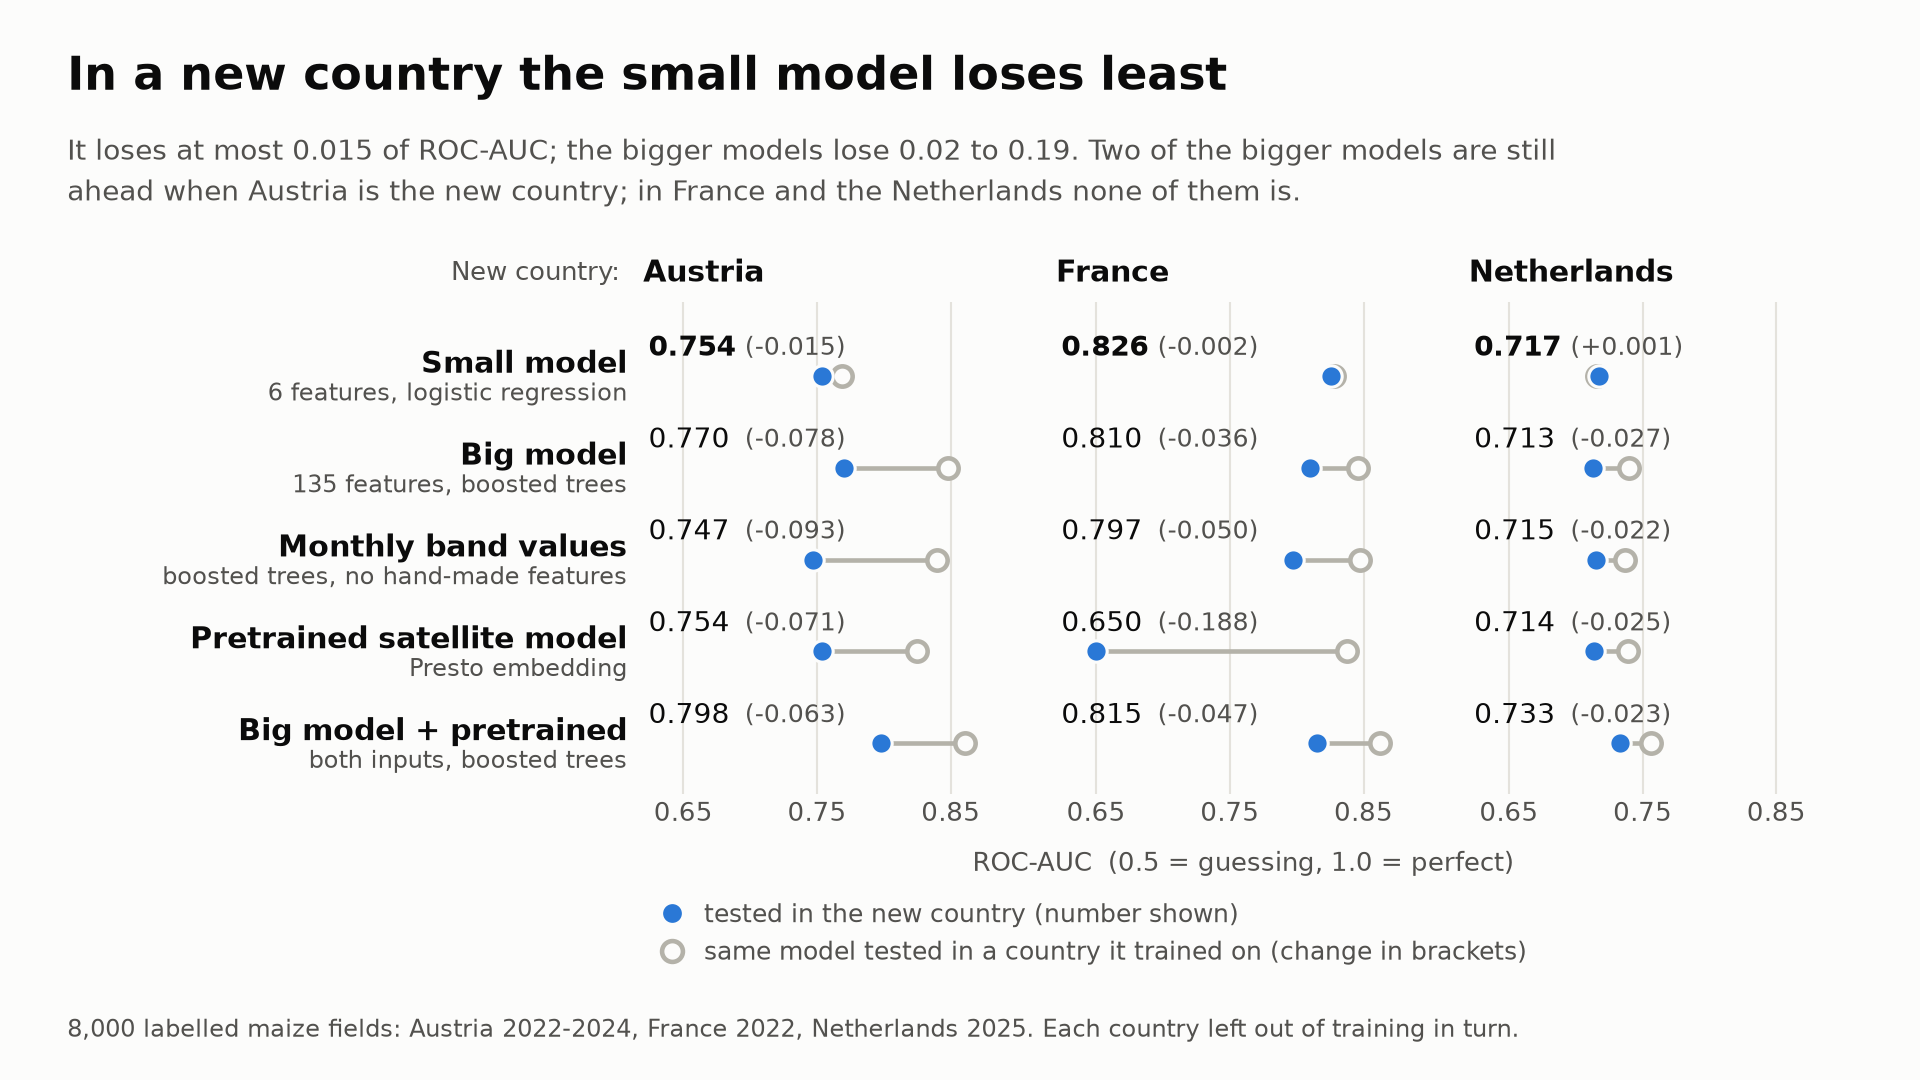
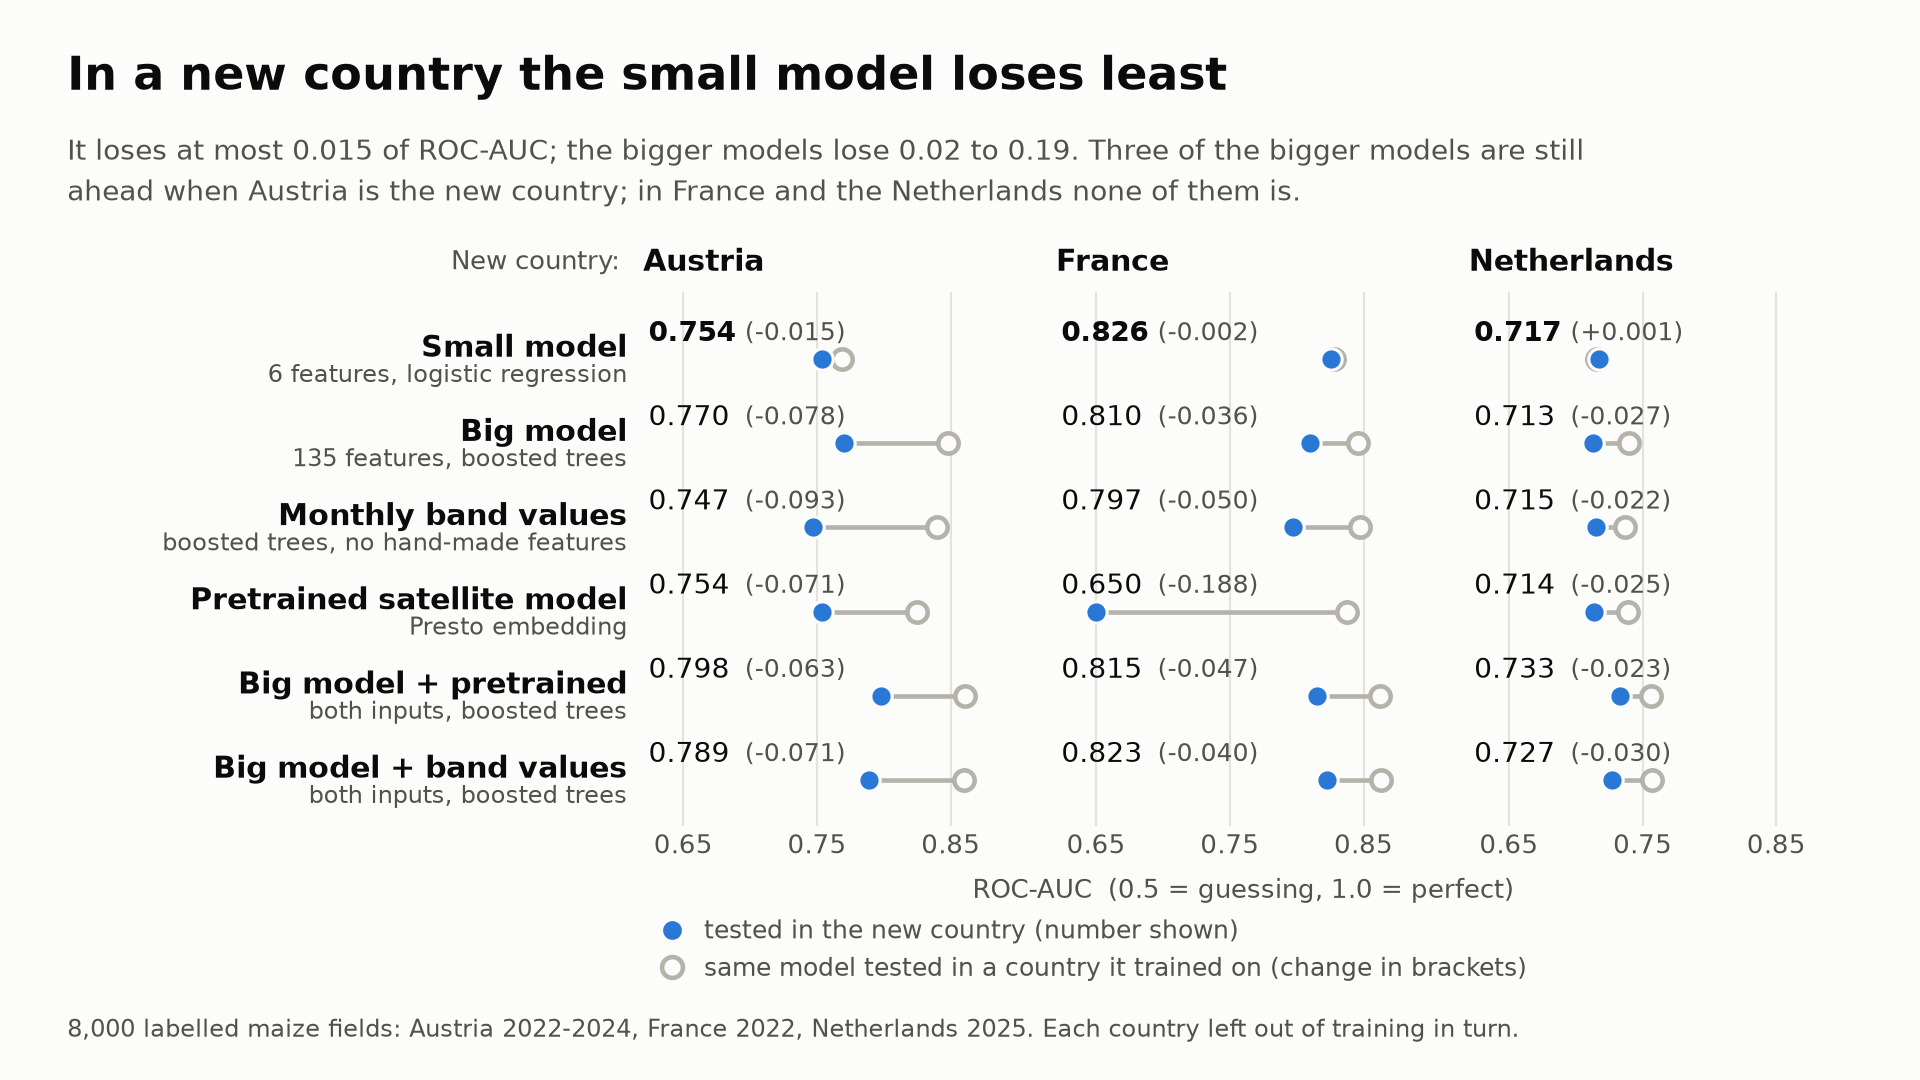
Pitch pack: what to say with a Chinese gloss, five judge questions, what we do not claim with the source of every number

diff --git a/docs/pitch/draw.py b/docs/pitch/draw.py
@@ -147,12 +147,12 @@ def signal():
 # --- 2. a country the model never saw ----------------------------------------------------------------
 def new_country():
     fig = new_fig("In a new country the small model loses least",
-                  "It loses at most 0.015 of ROC-AUC; the bigger models lose 0.02 to 0.19. Two of the bigger models are still\n"
+                  "It loses at most 0.015 of ROC-AUC; the bigger models lose 0.02 to 0.19. Three of the bigger models are still\n"
                   "ahead when Austria is the new country; in France and the Netherlands none of them is.")
     n = len(N.TRANSFER)
     lo, hi = 0.62, 0.90
     for p, country in enumerate(N.TRANSFER_COUNTRIES):
-        ax = fig.add_axes([0.335 + p * 0.215, 0.265, 0.195, 0.455])
+        ax = fig.add_axes([0.335 + p * 0.215, 0.235, 0.195, 0.495])
         clean(ax)
         for i, (name, sub, cells) in enumerate(N.TRANSFER):
             out, loss = cells[p]
@@ -172,16 +172,16 @@ def new_country():
         ax.set_yticks([])
         ax.set_xticks([0.65, 0.75, 0.85])
         ax.set_title(country, fontsize=14.5, color=INK, loc="left", pad=10, fontweight="bold")
-    fig.text(0.323, 0.747, "New country:", fontsize=12.5, color=INK2, ha="right", va="center")
+    fig.text(0.323, 0.757, "New country:", fontsize=12.5, color=INK2, ha="right", va="center")
     handles = [
         plt.Line2D([], [], marker="o", ls="", markersize=10, markerfacecolor=BLUE, markeredgecolor=BG,
                    label="tested in the new country (number shown)"),
         plt.Line2D([], [], marker="o", ls="", markersize=10, markerfacecolor=BG, markeredgecolor=GREY,
                    markeredgewidth=2.2, label="same model tested in a country it trained on (change in brackets)"),
     ]
-    fig.legend(handles=handles, loc="lower left", bbox_to_anchor=(0.325, 0.085), ncol=1, frameon=False, fontsize=12,
+    fig.legend(handles=handles, loc="lower left", bbox_to_anchor=(0.325, 0.07), ncol=1, frameon=False, fontsize=12,
                labelcolor=INK2, handletextpad=0.3)
-    fig.text(0.335 + 0.215 + 0.0975, 0.2, "ROC-AUC  (0.5 = guessing, 1.0 = perfect)", fontsize=12.5, color=INK2,
+    fig.text(0.335 + 0.215 + 0.0975, 0.175, "ROC-AUC  (0.5 = guessing, 1.0 = perfect)", fontsize=12.5, color=INK2,
              ha="center", va="center")
     foot(fig, "8,000 labelled maize fields: Austria 2022-2024, France 2022, Netherlands 2025. Each country left out of training in turn.")
     save(fig, "fig2_new_country")

diff --git a/docs/pitch/pitch_numbers.py b/docs/pitch/pitch_numbers.py
@@ -32,7 +32,11 @@ TRANSFER = [
     ("Monthly band values", "boosted trees, no hand-made features", [(0.747, 0.093), (0.797, 0.050), (0.715, 0.022)]),
     ("Pretrained satellite model", "Presto embedding", [(0.754, 0.071), (0.650, 0.188), (0.714, 0.025)]),
     ("Big model + pretrained", "both inputs, boosted trees", [(0.798, 0.063), (0.815, 0.047), (0.733, 0.023)]),
+    ("Big model + band values", "both inputs, boosted trees", [(0.789, 0.071), (0.823, 0.040), (0.727, 0.030)]),
 ]
+# The two rows of that table left out of the figure are the two hand-written rules (simpler than
+# the small model). Paired differences to the small model with Austria held out, same table:
+# big model +0.016, big + band values +0.035, big + pretrained +0.045 (intervals clear of zero).
 
 # --- 3. The organisers' 44 labelled field-years (Beltsville, 2021-2023) --------------------------
 # log 18:02, "EVALUATION 2 RESULT": models trained on every European field-year, scored once.

diff --git a/docs/pitch/script.md b/docs/pitch/script.md
@@ -1,0 +1,100 @@
+# What to say: the model part
+
+About 190 words with both slots filled: close to 90 seconds at a calm pace (130 words a minute).
+Leaving out the parts marked (can cut) brings it to about 80 seconds. Each English line is one
+breath. The Chinese line under it says the same thing.
+
+Numbers are said as "42 of 44", never as a percentage.
+
+## Script
+
+**Slide: the module diagram**
+
+1. Our part is the model. For each corn field it answers one question: silage or grain?
+   > 我们这部分是模型。它对每一块玉米地回答一个问题：青贮还是籽粒？
+
+2. First it checks the evidence. Did the satellite see the harvest?
+   > 第一步是检查证据：卫星有没有拍到收割？
+
+3. If clouds hid the harvest, we do not guess. The field is "not judged".
+   > 如果云挡住了收割，我们不猜。这块地记为"不判断"。
+
+4. Then a small model decides. It uses six numbers.
+   > 然后由一个小模型做判断。它只用六个数。
+
+5. The key one is moisture just before harvest. Silage is cut wet. Grain is left to dry.
+   > 最关键的一个是收割前的含水量。青贮是趁湿割的，籽粒玉米要等它变干。
+
+**Slide: the labelled fields (fig3)**
+
+6. We trained only on European fields. The model never saw a US field.
+   > 我们只用欧洲的地块训练。模型从没见过美国的地。
+
+7. Then we tested it on the organisers' labelled fields. It got 42 of 44 right.
+   > 然后我们在主办方带标签的地块上测试。44 个里对了 42 个。
+
+8. A much bigger model got 37. Always saying "grain" gets 32. (first sentence can cut)
+   > 一个大得多的模型对了 37 个。全部猜"籽粒"能对 32 个。（第一句可删）
+
+**Slide: counties and the state (fig5, state_2025)**
+
+9. Last, we add the fields up to county and state acres.
+   > 最后，我们把地块加起来，得到县和州的面积。
+
+10. Here we must be honest. Our first county method failed its test in Maryland.
+    > 这里必须说实话：我们第一种县级方法在马里兰没有通过检验。
+
+11. One cause is cloud at harvest time. Now we count silage only where we saw the harvest, and we report the corn we could not see.
+    > 原因之一是收割期有云。现在我们只在看到了收割的地方才计青贮，并且报告没看到的玉米有多少。
+
+12. **SLOT A, Michigan (to come).** Say the one that matches the logged result:
+    - passed: "On two new counties in Michigan, this method passed its test."
+      > 在密歇根两个新的县上，这个方法通过了检验。
+    - failed: "On two new counties in Michigan it failed again. So today our county numbers are only a rough guide."
+      > 在密歇根两个新的县上它又没通过。所以目前我们的县级数字只能作粗略参考。
+    - not testable: "In Michigan the clouds hid too much of the harvest, so we could not test it there."
+      > 在密歇根，云挡住了太多收割期，所以没法在那里检验。
+
+13. **SLOT B, Maryland 2025 (to come).** Say the one that matches:
+    - a number is reported: "For Maryland in 2025 we estimate ______ acres of silage. USDA reports 40,000."
+      > 对 2025 年的马里兰，我们估计青贮面积是 ______ 英亩。美国农业部的数字是 4 万。
+    - no number is reported: "For Maryland in 2025 the images do not support a state number, and we say so."
+      > 对 2025 年的马里兰，影像不足以支持一个州级数字，我们如实说明。
+
+14. We wrote down every test rule before we saw the answer. (can cut)
+    > 每一条检验规则，我们都是在看到答案之前写下来的。（可删）
+
+## Five likely questions
+
+Two sentences each. Do not add to them; if the judge wants more, point to the limits page.
+
+**1. Your model never saw US data. Why should it work here?**
+It looks at how wet the crop is when it is cut, not at the calendar date, and that is the same in Europe and here. On the organisers' labelled fields it got 42 of 44 right with no US training.
+> 它看的是收割时作物有多湿，而不是日历上的日期，这一点欧洲和这里是一样的。在主办方带标签的地块上，它没有用任何美国数据训练，44 个对了 42 个。
+
+**2. Why such a small model? Did you try deep learning or a pretrained model?**
+Yes, we tried bigger models and a pretrained satellite model. In a new country they lose more accuracy than the small one, and on the labelled fields the big model got 37 of 44 against 42.
+> 试过，更大的模型和预训练的卫星模型都试了。换一个国家时，它们掉的精度比小模型多；在带标签的地块上，大模型是 44 对 37，小模型是 42。
+
+**3. How accurate are your county and state acres?**
+Not proven yet: our first county method failed its test in Kent County, where it said 21 percent silage and the Census says 5.5. The second method misses by at most 3.8 points on the four Maryland counties, but it was built on those same counties, so that is not a test. *(Add the Michigan sentence from slot A when it is logged.)*
+> 还没有得到证实：第一种县级方法在 Kent 县没通过检验，它算出青贮占 21%，而普查是 5.5%。第二种方法在马里兰四个县上最多差 3.8 个百分点，但它就是在这四个县上做出来的，所以这不算检验。（密歇根结果出来后，加上 A 处那一句。）
+
+**4. What do you do about clouds?**
+If the last image before the cut and the first image after it are more than 20 days apart, the field is not judged. We count silage only where the harvest was seen, and next to every total we show the share of corn we could not see.
+> 如果收割前最后一张影像和收割后第一张影像相隔超过 20 天，这块地就不判断。我们只在看到了收割的地方计青贮，并在每个总数旁边报告没看到的玉米占多少。
+
+**5. Did you tune the model on the 44 labelled fields? Is 44 enough?**
+No: the model was frozen on European data first, the set was scored twice by a plan written before the first run, and every look at it is in a log. 44 is a small test, one field is 2.3 points, so 42 and 43 would mean the same.
+> 没有：模型先在欧洲数据上定型；这组地块按事先写好的计划打了两次分；每一次查看都记在日志里。44 个是个小测试，一块地就是 2.3 个百分点，所以 42 和 43 没有实质区别。
+
+## Words to keep the same everywhere
+
+| Say | Not | 中文 |
+|---|---|---|
+| clearly seen / partly seen / not judged | clear tier, wide tier, abstain | 看清了 / 部分看到 / 不判断 |
+| the small model | logistic regression, eu2_logistic_v1 | 小模型（六个特征的逻辑回归） |
+| the big model | LightGBM, GBM | 大模型（135 个特征的提升树） |
+| first method / second method (for county totals) | local threshold, window weighting | 第一种 / 第二种县级加总方法 |
+| corn we could not see | blind windows | 没看到的玉米 |
+| 42 of 44 | 95 percent | 44 个里对 42 个 |

diff --git a/docs/pitch/limits.md b/docs/pitch/limits.md
@@ -1,0 +1,73 @@
+# What we do not claim
+
+"Log HH:MM" is a row of the evaluation access log (`<data>/eval/ACCESS_LOG.md`), named by its time
+on 14 Nov 2026 (Pacific). Everything else is a file in this repository.
+
+## The limits, said plainly
+
+- **County and state acres are not validated.** The first county method failed the Maryland test
+  whose limits were written down before it ran: Kent County read 21.0 % silage where the Census
+  has 5.5 % (fail line 20.5 %), and Carroll read 0.0 % where the Census has 8.9 % (weak).
+- **The second method is not confirmed.** Counting silage only where the harvest was seen was
+  found on the same four Maryland counties after the failure. Its worst miss there is 3.8 points,
+  but that is not a test, and only two of the four counties (Queen Anne's, Kent) have much corn
+  in harvest windows without a clear view. Its clean test is Michigan 2022 (Gratiot, Branch):
+  **to come**.
+- **Cloud is part of the cause, not all of it.** In Queen Anne's and Kent, 57 % and 54 % of the
+  corn area falls in two-week harvest windows where too few fields were clearly seen. But inside
+  the early windows the clearly seen fields are themselves called silage at 26 to 55 %, so part
+  of the error is in the field calls.
+- **42 of 44 is a small test, not an accuracy figure.** One site, three seasons, 44 field-years;
+  one field is 2.3 points. The set was scored twice, by a plan written before the first run. The
+  small model was named as the main model on European data, but after the first run had already
+  shown it ahead; the log says so, and every model family is shown side by side for that reason.
+- **The small model is not better everywhere.** Inside one country the big model is ahead (0.86
+  against 0.78 in Austria 2024). When Austria is the new country three bigger models are still
+  ahead (by 0.016, 0.035 and 0.045). The claim is only that the small model loses least when the
+  country changes.
+- **Dropping dates in training is not proven.** It was picked after seeing six arms. Its one
+  confirmation on the labelled US fields is **to come**. Even with it, the big model is level
+  with the small one in two of three countries.
+- **Not all corn is in the total.** Corn planted after a small grain is outside the scored field
+  set (17,056 acres in the Maryland 2025 frame) and is reported beside the total. Fields whose
+  harvest was not seen are not judged.
+- **The Maryland 2025 figure is not blind to its target.** The USDA figure (40,000 silage,
+  410,000 grain) was already known to us when the steps were written; no 2025 field had been
+  scored then. Our figure: **to come**. Pennsylvania and Wisconsin: **to come**.
+
+What is being tried: the second method with its Michigan test; harvest windows formed by region
+for the Maryland 2025 sample; the big model trained with dates dropped as a possible second
+opinion; a model that also reads the pixels around the field (no result in this pack).
+
+## Where each number comes from
+
+| In the pack | Number | Source |
+|---|---|---|
+| Small model on the labelled fields | 42 of 44; one silage field missed, one grain field called silage | Log 18:02, "Evaluation 2 result" |
+| Other models, same run | big model 37, timing + moisture rule 36, average of three simple models 36, timing rule 35, always grain 32 | Log 18:02 |
+| First run, models trained on Austria only | small model 42, big model 30, always grain 32 | Log 14:07 (accuracy 0.682 and 0.727 of 44); `docs/module.md`, module_v1 table |
+| Scored twice by plan; how the main model was named | | Log 13:53, 14:07, 18:01 |
+| One field is 2.3 points | | `docs/model.md`, under the in-site table |
+| What the small model keys on | 0.103, 0.049, 0.038, 0.030, 0.008, 0.000 (with spreads) | `docs/features.md`, "The six features the small model uses" |
+| Training data of the classifier | 8,000 fields: Austria 2022-2024, France 2022, Netherlands 2025 | Log 17:40 |
+| New country: accuracy and loss per model | fig2, all 36 values | `docs/foundation-models.md`, "Three countries, each left out in turn" |
+| "at most 0.015", "0.02 to 0.19" | | `docs/foundation-models.md`, Conclusion |
+| Bigger models ahead on Austria | +0.016, +0.035, +0.045 | Same table (paired differences) |
+| Inside Austria 2024 | 0.86 against 0.78 | `docs/features.md`, "What did not help" |
+| Dropping dates | 0.764 to 0.780; loss 0.047 to 0.035; small model 0.765 and 0.005; seven arms in fig4 | `docs/foundation-models.md`, augmentation table |
+| The one confirmation and its pass line | more than 37 of 44 | Log 18:50 |
+| Clearly seen / partly seen / not judged | 12 days or less; 12 to 20; over 20 or no harvest found | Log 17:02; `docs/module.md`, "The layers" |
+| First county method, Kent and Carroll | 21.0 % against 5.5 %, fail line 20.5 %; 0.0 % against 8.9 %, weak | Log 17:30 (limits), 18:11, 18:16 |
+| Second method, four seen counties | 2.0 / 6.2 / 5.1 / 15.1 % against Census 1.3 / 5.5 / 8.9 / 19.6 %; worst miss 3.8 | Log 18:54 |
+| Frederick, range for the scored fields | 11.2 to 19.9 % | Log 18:09 |
+| Corn not seen at harvest | Queen Anne's 57 %, Kent 54 %, Carroll and Frederick under 1 % | Log 18:54 |
+| Early windows called silage too often | 26 to 55 % | Log 18:49 |
+| Michigan test counties and pass rule | Census 24.2 % and 1.8 % | Log 18:25, 18:37, 18:54 |
+| Maryland 2025, USDA | 410,000 grain, 40,000 silage, 8.9 % | Log, "State targets for 2025" |
+| Maryland 2025 sample | 150 of 838 blocks; 3,929 fields drawn; 17,056 double-crop acres | Log 18:25; `docs/us-county-fields.md`, "2025 statewide samples" |
+
+One difference between two runs, stated so nobody trips on it: the training run of the final
+models reports the big model at 0.770 / 0.805 / 0.713 with each country held out (mean 0.763, log
+17:49); the comparison run in `docs/foundation-models.md` reports 0.770 / 0.810 / 0.713 (mean
+0.764). Figures 2 and 4 use the comparison run, because only it has the in-country values and the
+date-dropping arms. The small model's values are the same in both.

diff --git a/docs/pitch/README.md b/docs/pitch/README.md
@@ -1,0 +1,70 @@
+# Pitch pack: the model module
+
+Everything needed to put the model part into the 5-minute talk. Each figure is a 1920 x 1080 PNG
+with its own title, so it can go on a slide as it is.
+
+**Status.** Complete except for the results still running. A dashed "to come" box marks each of
+them, and the list is at the bottom of this page.
+
+## What is here
+
+| File | What it shows | Use |
+|---|---|---|
+| `module_diagram.png` | The module in four boxes: what goes in, the evidence check, the classifier, the adding-up, and what is shown beside every total | Main slide 1 |
+| `fig3_labelled_fields.png` | The organisers' labelled fields: small model 42 of 44, big model 37, always grain 32 | Main slide 2 |
+| `fig5_counties.png` | County totals against the 2022 Census: where the first method failed, the second method, the Michigan test | Main slide 3 |
+| `state_2025.png` | Maryland 2025 state acres beside the USDA figure, with what is shown beside it | Main slide 3 or 4, once it has a number |
+| `fig1_signal.png` | What the small model keys on: moisture just before harvest | Backup, "how does it work?" |
+| `fig2_new_country.png` | Small model against bigger ones in a country they never saw | Backup, "why not a bigger model?" |
+| `fig4_date_dropping.png` | What dropping observation dates in training did for the big model | Backup, "what else did you try?" |
+| `script.md` | What to say, line by line, with Chinese under each line; five likely questions with answers | For the speaker |
+| `limits.md` | What we do not claim, and the source of every number | Read before changing any wording |
+| `pitch_numbers.py`, `draw.py` | The numbers with their sources, and the script that draws all seven images | To redraw |
+
+The model part has about 60 to 90 seconds, so three slides are enough: the diagram, the labelled
+fields, and the adding-up. The other figures are for questions.
+
+## Plain words used in the pack
+
+- **Clearly seen, partly seen, not judged.** How well the satellite saw the harvest of a field:
+  the last image before the cut and the first image after it are at most 12 days apart, 12 to 20
+  days apart, or further apart (or no harvest was found).
+- **Small model.** Logistic regression on six measurements of the crop at harvest. **Big model.**
+  Boosted trees on 135 measurements.
+- **Field-year.** One field in one season. The organisers' set is 44 field-years from 2021-2023.
+- **First method, second method.** Two ways of adding field calls up to a county. The first set
+  a local cut-off from a nearly all-grain county next door. The second counts silage only in
+  two-week harvest windows where enough fields were clearly seen, and counts the other windows
+  as grain.
+- **Corn not seen at harvest.** The share of a county's corn area that falls in those other
+  windows. It is shown next to every total.
+- **ROC-AUC.** How well a model ranks silage above grain: 0.5 is guessing, 1.0 is perfect.
+
+## Wording that must not change
+
+- The county totals **failed** their Maryland test. Do not write "validated", "accurate" or
+  "matches the Census" for any county or state number.
+- The second method is **not confirmed** until the Michigan result is in the pack.
+- Say **42 of 44**, not a percentage, and keep "always grain gets 32" next to it.
+- The model was trained on European fields only. The 44 labelled fields were used for testing,
+  never for training.
+
+## To redraw
+
+```
+python docs/pitch/draw.py              # all seven images
+python docs/pitch/draw.py counties     # one of: module signal new_country labelled_fields date_dropping counties state
+```
+
+Needs matplotlib. To fill a "to come" box, put the value and its source in `pitch_numbers.py`
+and run the script again.
+
+## Still to come
+
+| Result | Where it will appear |
+|---|---|
+| Michigan 2022, two counties: the clean test of the second method | `fig5_counties.png`, script slot A, question 3, `limits.md` |
+| Maryland 2025 state acres from the random sample | `state_2025.png`, script slot B, `limits.md` |
+| Pennsylvania and Wisconsin 2025 | `state_2025.png` |
+| One test of the big model trained with dates dropped, on the labelled fields | `fig3_labelled_fields.png`, `fig4_date_dropping.png`, `limits.md` |
+| A model that also reads the pixels around the field | A line in `limits.md`, if it is logged in time |
